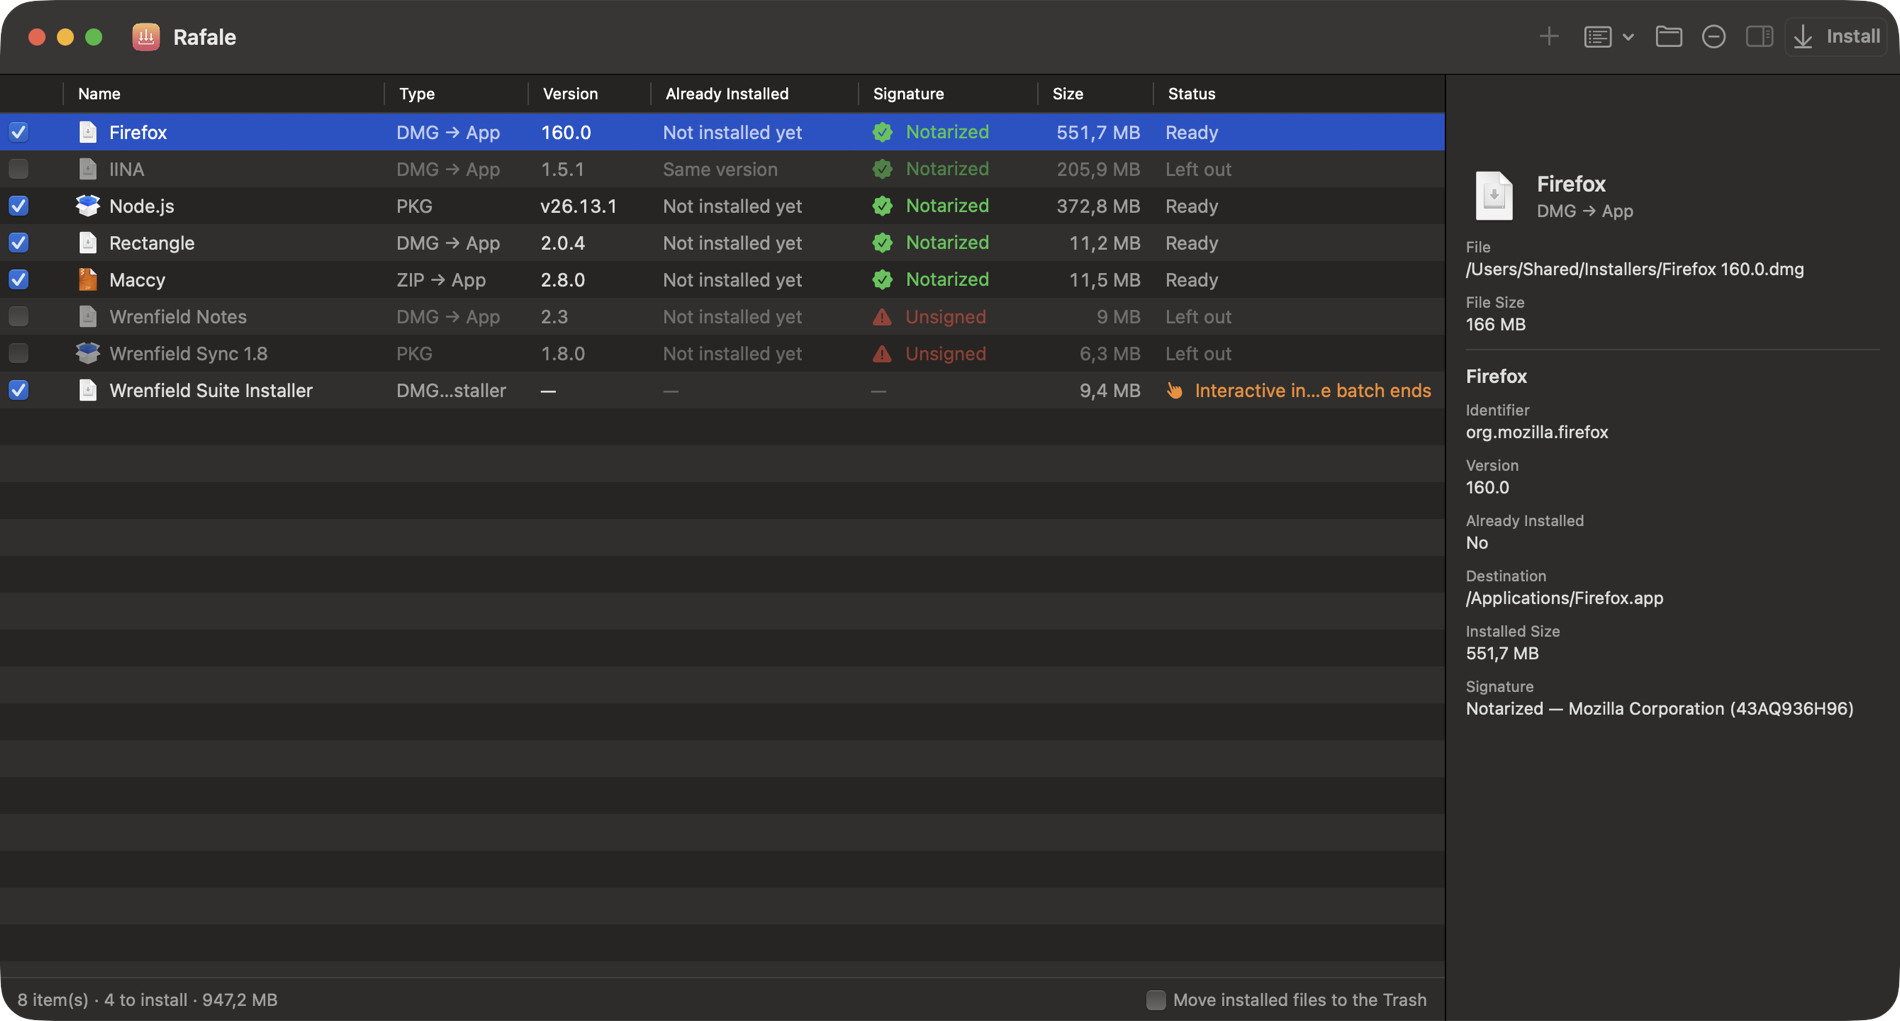
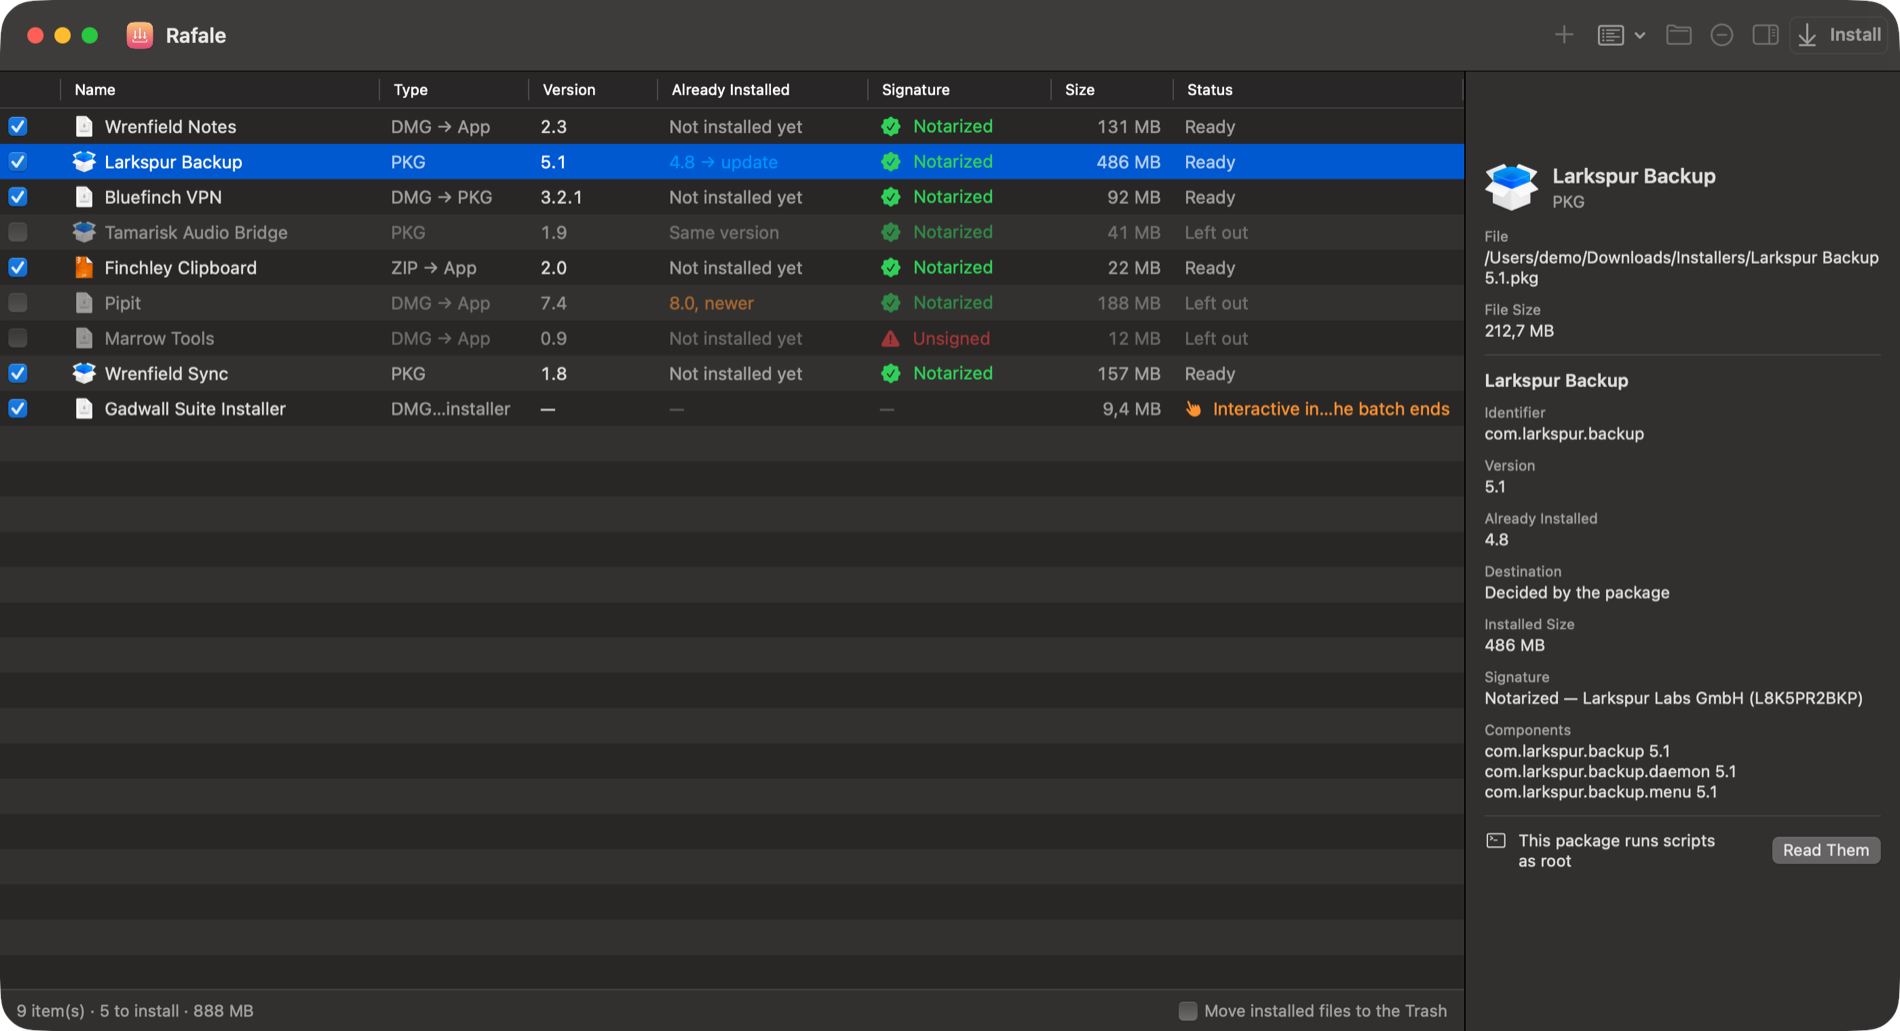
Add a demo mode and detailed screenshots

diff --git a/Sources/Rafale/DemoData.swift b/Sources/Rafale/DemoData.swift
@@ -1,0 +1,131 @@
+import Foundation
+
+/// Jeu de données inventé, pour les captures d'écran du README : lancer l'app avec
+/// `-demoData YES` remplace la file réelle par celle-ci. `-demoStage` choisit l'état montré :
+/// `analyzed` (par défaut), `running`, `done` ou `empty`.
+/// Aucun de ces éditeurs ni de ces fichiers n'existe ; rien n'est lu, installé ni enregistré.
+enum DemoData {
+    static var isEnabled: Bool { UserDefaults.standard.bool(forKey: "demoData") }
+    static var stage: String { UserDefaults.standard.string(forKey: "demoStage") ?? "analyzed" }
+
+    static let lists = [
+        SavedList(name: "Fresh install", paths: Array(repeating: "", count: 9)),
+        SavedList(name: "Audio workstation", paths: Array(repeating: "", count: 14)),
+    ]
+
+    static let script = """
+    ━━━ postinstall ━━━
+    #!/bin/sh
+    # Registers the backup daemon and starts it.
+    PLIST="/Library/LaunchDaemons/com.larkspur.backup.daemon.plist"
+    /bin/launchctl bootout system "$PLIST" 2>/dev/null || true
+    /bin/launchctl bootstrap system "$PLIST"
+    /usr/sbin/chown -R root:wheel "/Library/Application Support/Larkspur"
+    exit 0
+
+    ━━━ preinstall ━━━
+    #!/bin/sh
+    # Stops the previous version before its files are replaced.
+    /usr/bin/pkill -x backupd 2>/dev/null || true
+    exit 0
+
+    """
+
+    private static let folder = "/Users/demo/Downloads/Installers/"
+
+    private static func item(_ file: String, _ kind: SourceKind, mb: Double, _ payload: Payload,
+                             enabled: Bool = true, state: ItemState = .ready,
+                             notes: [String] = [], log: String = "") -> QueueItem {
+        let q = QueueItem(url: URL(fileURLWithPath: folder + file), kind: kind)
+        q.fileSize = Int64(mb * 1_000_000)
+        q.payloads = state == .manual("") ? [] : [payload]
+        q.enabled = enabled
+        q.state = state
+        q.notes = notes
+        q.log = log
+        return q
+    }
+
+    private static func app(_ name: String, _ id: String, _ version: String, mb: Double, team: String,
+                            installed: String? = nil, _ comparison: Comparison = .new,
+                            trust: Trust = .notarized) -> Payload {
+        var p = Payload(kind: .app, relativePath: name + ".app", name: name)
+        p.identifier = id
+        p.version = version
+        p.installedVersion = installed
+        p.comparison = comparison
+        p.trust = trust
+        p.trustDetail = trust.ok ? team : ""
+        p.sizeBytes = Int64(mb * 1_000_000)
+        p.destination = "/Applications/\(name).app"
+        return p
+    }
+
+    private static func pkg(_ name: String, _ id: String, _ version: String, mb: Double, team: String,
+                            installed: String? = nil, _ comparison: Comparison = .new,
+                            components: [String] = []) -> Payload {
+        var p = Payload(kind: .pkg, relativePath: name + ".pkg", name: name)
+        p.identifier = id
+        p.version = version
+        p.installedVersion = installed
+        p.comparison = comparison
+        p.trust = .notarized
+        p.trustDetail = team
+        p.sizeBytes = Int64(mb * 1_000_000)
+        p.hasScripts = true
+        p.packages = ([id] + components).map { PkgRef(id: $0, version: version, installed: installed) }
+        return p
+    }
+
+    /// La file, dans l'état demandé. Le second élément rendu est celui à sélectionner.
+    static func queue() -> (items: [QueueItem], selected: QueueItem?) {
+        guard stage != "empty" else { return ([], nil) }
+        let running = stage == "running", done = stage == "done"
+
+        let notes = item("Wrenfield Notes 2.3.dmg", .dmg, mb: 48.2,
+                         app("Wrenfield Notes", "com.wrenfield.notes", "2.3", mb: 131, team: "Wrenfield Software Ltd (W4R9NF13LD)"),
+                         state: running || done ? .done : .ready,
+                         log: running || done ? "Copied to /Applications/Wrenfield Notes.app\n" : "")
+        let backup = item("Larkspur Backup 5.1.pkg", .pkg, mb: 212.7,
+                          pkg("Larkspur Backup", "com.larkspur.backup", "5.1", mb: 486, team: "Larkspur Labs GmbH (L8K5PR2BKP)",
+                              installed: "4.8", .update,
+                              components: ["com.larkspur.backup.daemon", "com.larkspur.backup.menu"]),
+                          state: running ? .running(62, "Writing files…") : done ? .done : .ready,
+                          log: done ? "The upgrade was successful.\n" : "")
+        let vpn = item("Bluefinch VPN 3.2.1.dmg", .dmg, mb: 37.9,
+                       pkg("Bluefinch VPN", "net.bluefinch.vpn", "3.2.1", mb: 92, team: "Bluefinch Networks Inc. (B3F7NCH9VP)"),
+                       state: running ? .waiting : done ? .failed("The package requires macOS 28 or later.") : .ready,
+                       notes: ["The image's license agreement is accepted automatically on mount."],
+                       log: done ? "Verifying package…\nThe package requires macOS 28 or later.\n" : "")
+        let bridge = item("Tamarisk Audio Bridge 1.9.pkg", .pkg, mb: 18.4,
+                          pkg("Tamarisk Audio Bridge", "io.tamarisk.audio.bridge", "1.9", mb: 41, team: "Tamarisk Audio SAS (T6M2RSK8AU)",
+                              installed: "1.9", .same),
+                          enabled: false)
+        let clipboard = item("Finchley Clipboard 2.0.zip", .zip, mb: 9.6,
+                             app("Finchley Clipboard", "com.finchley.clipboard", "2.0", mb: 22, team: "Finchley Apps (F1NC8L3YCB)"),
+                             state: running ? .waiting : done ? .done : .ready)
+        let pipit = item("Pipit 7.4.dmg", .dmg, mb: 76.3,
+                         app("Pipit", "com.pipit.app", "7.4", mb: 188, team: "Pipit Software (P1P1T7SFTW)",
+                             installed: "8.0", .older),
+                         enabled: false)
+        let marrow = item("Marrow Tools 0.9.dmg", .dmg, mb: 5.1,
+                          app("Marrow Tools", "com.marrow.tools", "0.9", mb: 12, team: "", trust: .unsigned),
+                          enabled: false)
+        let sync = item("Wrenfield Sync 1.8.pkg", .pkg, mb: 64.0,
+                        pkg("Wrenfield Sync", "com.wrenfield.sync", "1.8", mb: 157, team: "Wrenfield Software Ltd (W4R9NF13LD)"),
+                        state: running ? .waiting : done ? .done : .ready)
+        let suite = item("Gadwall Suite Installer.dmg", .dmg, mb: 9.4,
+                         app("", "", "", mb: 0, team: ""),
+                         state: .manual(L("Installeur interactif : ouvert à la fin du lot")),
+                         notes: [L("Contient « %@ », à lancer à la main.", "Install Gadwall Suite.app")])
+        suite.payloads = []
+
+        let all = [notes, backup, vpn, bridge, clipboard, pipit, marrow, sync, suite]
+        return (all, done ? vpn : backup)
+    }
+
+    static var summary: String? {
+        guard stage == "done" else { return nil }
+        return [L("%d installé(s)", 4), L("%d en échec", 1), L("%d à finir à la main", 1)].joined(separator: " · ")
+    }
+}

diff --git a/Sources/Rafale/AppModel.swift b/Sources/Rafale/AppModel.swift
@@ -32,6 +32,20 @@ final class AppModel: ObservableObject {
     private static let listsFile = supportDir.appendingPathComponent("lists.json")
 
     private init() {
+        // Captures d'écran du README : file inventée, rien n'est lu ni enregistré.
+        if DemoData.isEnabled {
+            let demo = DemoData.queue()
+            restoring = true
+            items = demo.items
+            for item in demo.items {
+                watchers[item.id] = item.objectWillChange.sink { [weak self] _ in self?.objectWillChange.send() }
+            }
+            if let selected = demo.selected { selection = [selected.id] }
+            lists = DemoData.lists
+            running = DemoData.stage == "running"
+            summary = DemoData.summary
+            return
+        }
         Scratch.removeStale()
         if let data = try? Data(contentsOf: Self.listsFile),
            let saved = try? JSONDecoder().decode([SavedList].self, from: data) {
@@ -48,6 +62,7 @@ final class AppModel: ObservableObject {
 
     /// Ajoute des fichiers ou des dossiers ; les dossiers sont parcourus en entier.
     func add(_ urls: [URL]) {
+        if DemoData.isEnabled { return }
         DispatchQueue.global(qos: .userInitiated).async {
             let found = Self.expand(urls)
             DispatchQueue.main.async { self.append(found) }
@@ -97,6 +112,7 @@ final class AppModel: ObservableObject {
     }
 
     func analyze(_ item: QueueItem) {
+        if DemoData.isEnabled { return }
         item.state = .analyzing
         item.notes = []
         if let old = item.workDir { try? FileManager.default.removeItem(at: old); item.workDir = nil }
@@ -195,6 +211,7 @@ final class AppModel: ObservableObject {
     // MARK: Installation
 
     func install() {
+        if DemoData.isEnabled { return }
         guard canInstall else { return }
         let todo = toInstall
         let manual = manualToOpen
@@ -249,7 +266,7 @@ final class AppModel: ObservableObject {
         }
     }
 
-    func stop() { runner?.stop(); objectWillChange.send() }
+    func stop() { if DemoData.isEnabled { return }; runner?.stop(); objectWillChange.send() }
     var stopping: Bool { runner?.stopping ?? false }
 
     // MARK: Listes enregistrées
@@ -281,6 +298,7 @@ final class AppModel: ObservableObject {
     }
 
     func load(_ list: SavedList) {
+        if DemoData.isEnabled { return }
         let urls = list.paths.map { URL(fileURLWithPath: $0) }
         let missing = urls.filter { !FileManager.default.fileExists(atPath: $0.path) }
         append(urls.filter { !missing.contains($0) })
@@ -298,11 +316,12 @@ final class AppModel: ObservableObject {
     }
 
     private func persistLists() {
+        if DemoData.isEnabled { return }
         if let data = try? JSONEncoder().encode(lists) { try? data.write(to: Self.listsFile, options: .atomic) }
     }
 
     private func saveSession() {
-        guard !restoring else { return }
+        guard !restoring, !DemoData.isEnabled else { return }
         UserDefaults.standard.set(items.map(\.url.path), forKey: "session")
     }
 }

diff --git a/Sources/Rafale/Models.swift b/Sources/Rafale/Models.swift
@@ -1,5 +1,6 @@
 import AppKit
 import Foundation
+import UniformTypeIdentifiers
 
 enum SourceKind: String {
     case pkg, dmg, zip
@@ -93,8 +94,12 @@ final class QueueItem: ObservableObject, Identifiable {
     let id = UUID()
     let url: URL
     let kind: SourceKind
-    let fileSize: Int64
-    lazy var icon: NSImage = NSWorkspace.shared.icon(forFile: url.path)
+    var fileSize: Int64
+    /// Icône du fichier, ou celle de son type quand le fichier n'est pas sur le disque.
+    lazy var icon: NSImage = {
+        if FileManager.default.fileExists(atPath: url.path) { return NSWorkspace.shared.icon(forFile: url.path) }
+        return NSWorkspace.shared.icon(for: UTType(filenameExtension: url.pathExtension) ?? .data)
+    }()
 
     @Published var enabled = false
     @Published var state: ItemState = .analyzing

diff --git a/Sources/Rafale/ContentView.swift b/Sources/Rafale/ContentView.swift
@@ -305,6 +305,7 @@ struct ItemDetail: View {
     }
 
     private func loadScripts() {
+        if DemoData.isEnabled { scripts = DemoData.script; return }
         loadingScripts = true
         let targets = item.payloads.filter { $0.kind == .pkg && $0.hasScripts }.map(\.relativePath)
         let item = item

diff --git a/README.md b/README.md
@@ -13,7 +13,9 @@ Rafale replaces the ritual of a fresh macOS install: open an image, drag the app
 - **Replay the same batch later.** Save the queue as a named list and load it again on the next reinstall.
 - **Native and light.** Swift and SwiftUI, no Electron, no background daemon left on the system.
 
-![Rafale — a queue of disk images, packages and archives, analyzed before anything is installed](docs/screenshot-main.png)
+![Rafale — a queue of disk images, packages and archives, analyzed before anything is installed, with the details of the selected package](docs/screenshot-main.png)
+
+
 
 ### Support the project
 
@@ -32,6 +34,9 @@ Free and open-source 🙂 — if you feel like it, buy me a few tokens:
 - The details pane shows identifiers, destination, package components, notes and the log of the last run.
 - The queue survives a relaunch.
 
+![Rafale — the empty queue, ready for a drop](docs/screenshot-empty.png)
+
+
 ## Analysis
 
 - **Packages** — identifier, version, installed size and scripts are read from the package table of contents without unpacking the payload. When the package declares an application bundle, its version is shown instead of the package version, which vendors often leave at `1.0`.
@@ -41,7 +46,9 @@ Free and open-source 🙂 — if you feel like it, buy me a few tokens:
 - **Signature** — *Notarized*, *Signed*, *Not notarized* or *Unsigned*, with the developer name. The verdict is read from Gatekeeper and still holds when assessments are disabled on the Mac.
 - **Interactive installers** — an image that only contains an installer application cannot be automated. It is flagged and opened for you when the run ends.
 
-![Rafale — the details of an unsigned package, with the script it would run as root](docs/screenshot-scripts.png)
+![Rafale — the scripts a package would run as root, read before installing](docs/screenshot-scripts.png)
+
+
 
 ## Installation run
 
@@ -51,7 +58,13 @@ Free and open-source 🙂 — if you feel like it, buy me a few tokens:
 - Progress is shown per row, with the phase reported by the macOS installer.
 - A failure does not stop the run; the row keeps the error and can be retried.
 - **Stop** lets the current operation finish and skips the rest.
+
+![Rafale — a batch in progress: one item installed, one being written, the others waiting](docs/screenshot-running.png)
+
 - Optionally, installed files are moved to the Trash when they succeed.
+
+![Rafale — the end of a batch: four items installed, one failure with its log, one installer left to finish by hand](docs/screenshot-done.png)
+
 
 ## Saved lists
 
@@ -78,6 +91,11 @@ Free and open-source 🙂 — if you feel like it, buy me a few tokens:
 - Window size and position, column layout and zoom level (70 % to 200 %) are remembered.
 - Automatic updates through Sparkle.
 
+![Rafale — the same queue in French, following the system language](docs/screenshot-french.png)
+
+![Rafale — the About window](docs/screenshot-about.png)
+
+
 ## Installing Rafale
 
 1. Download the latest `Rafale-x.y.z.zip` from the releases page and move `Rafale.app` to `/Applications`.
@@ -92,7 +110,7 @@ Requires Xcode command line tools with Swift 5.9 or later.
 ./build.sh
 ```
 
-The app is assembled in `build/Rafale.app`. To sign with your own certificate, write its name in a local `.identite` file or run `IDENTITE="Certificate Name" ./build.sh`; without either, the build is ad hoc signed. The icon is drawn by `tools/make-icns.sh`.
+The app is assembled in `build/Rafale.app`. Launching it with `-demoData YES` shows an invented queue instead of your own, for screenshots; `-demoStage running`, `done` or `empty` picks the state. To sign with your own certificate, write its name in a local `.identite` file or run `IDENTITE="Certificate Name" ./build.sh`; without either, the build is ad hoc signed. The icon is drawn by `tools/make-icns.sh`.
 
 ## Releasing
 
@@ -122,6 +140,7 @@ Bumps the version, builds, zips, signs the archive with the Sparkle key from the
 | `Sources/Rafale/ContentView.swift` | Main window, toolbar, details pane |
 | `Sources/Rafale/RafaleApp.swift` | App entry, menus, menu bar item, About window, updater |
 | `Sources/Rafale/Models.swift`, `Support.swift` | Data types, shell and localization helpers |
+| `Sources/Rafale/DemoData.swift` | Invented queue used for screenshots |
 | `Resources/` | `Info.plist`, icons, translations |
 | `tools/` | Icon drawing scripts |
 | `build.sh`, `release.sh` | Build and release |
